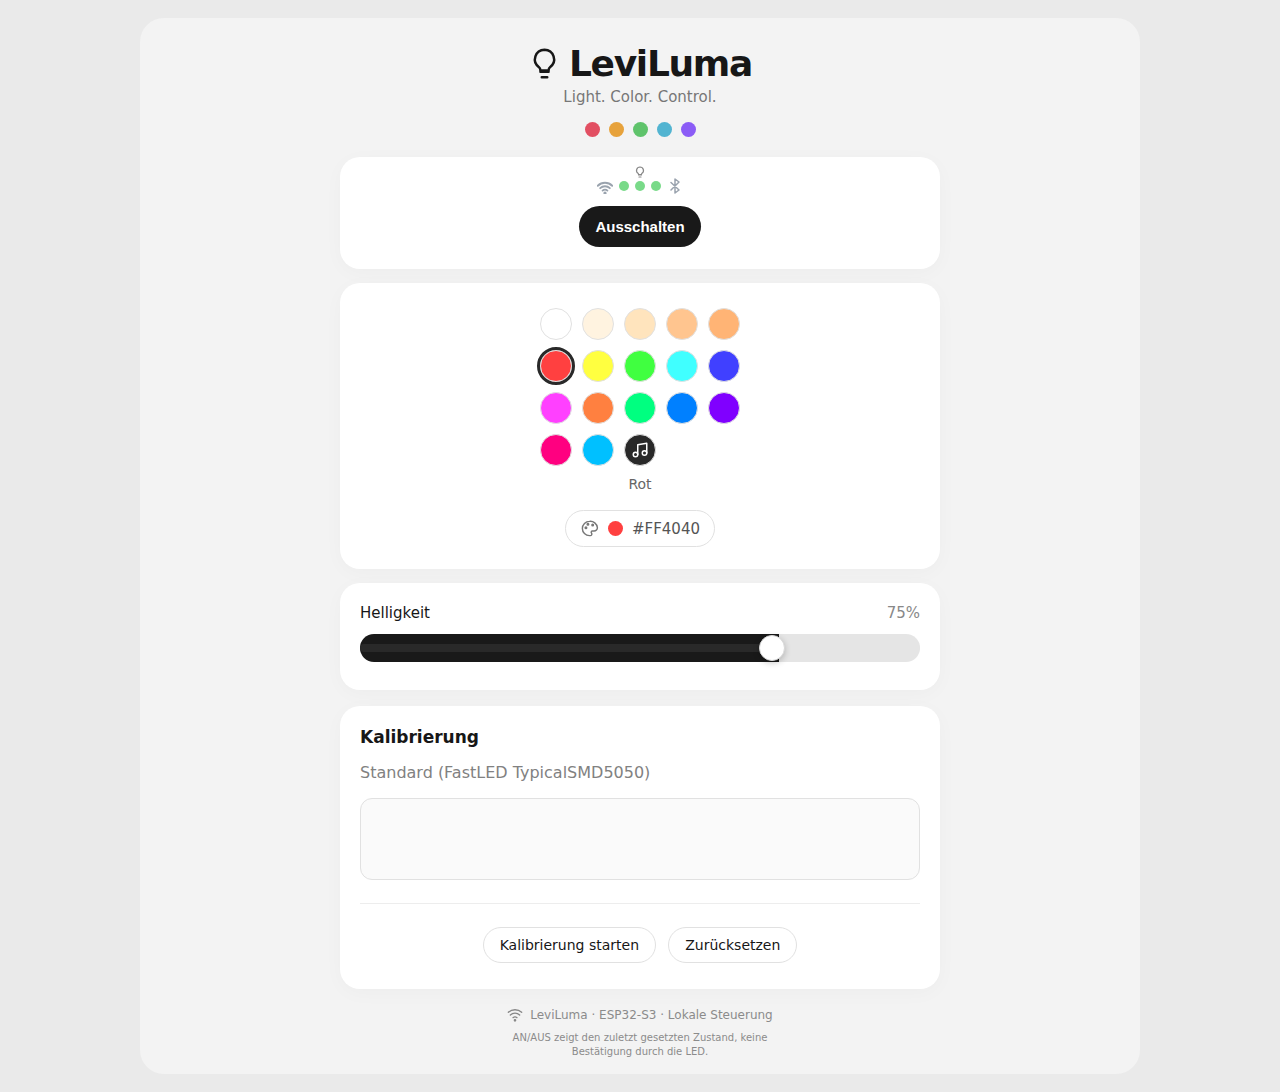
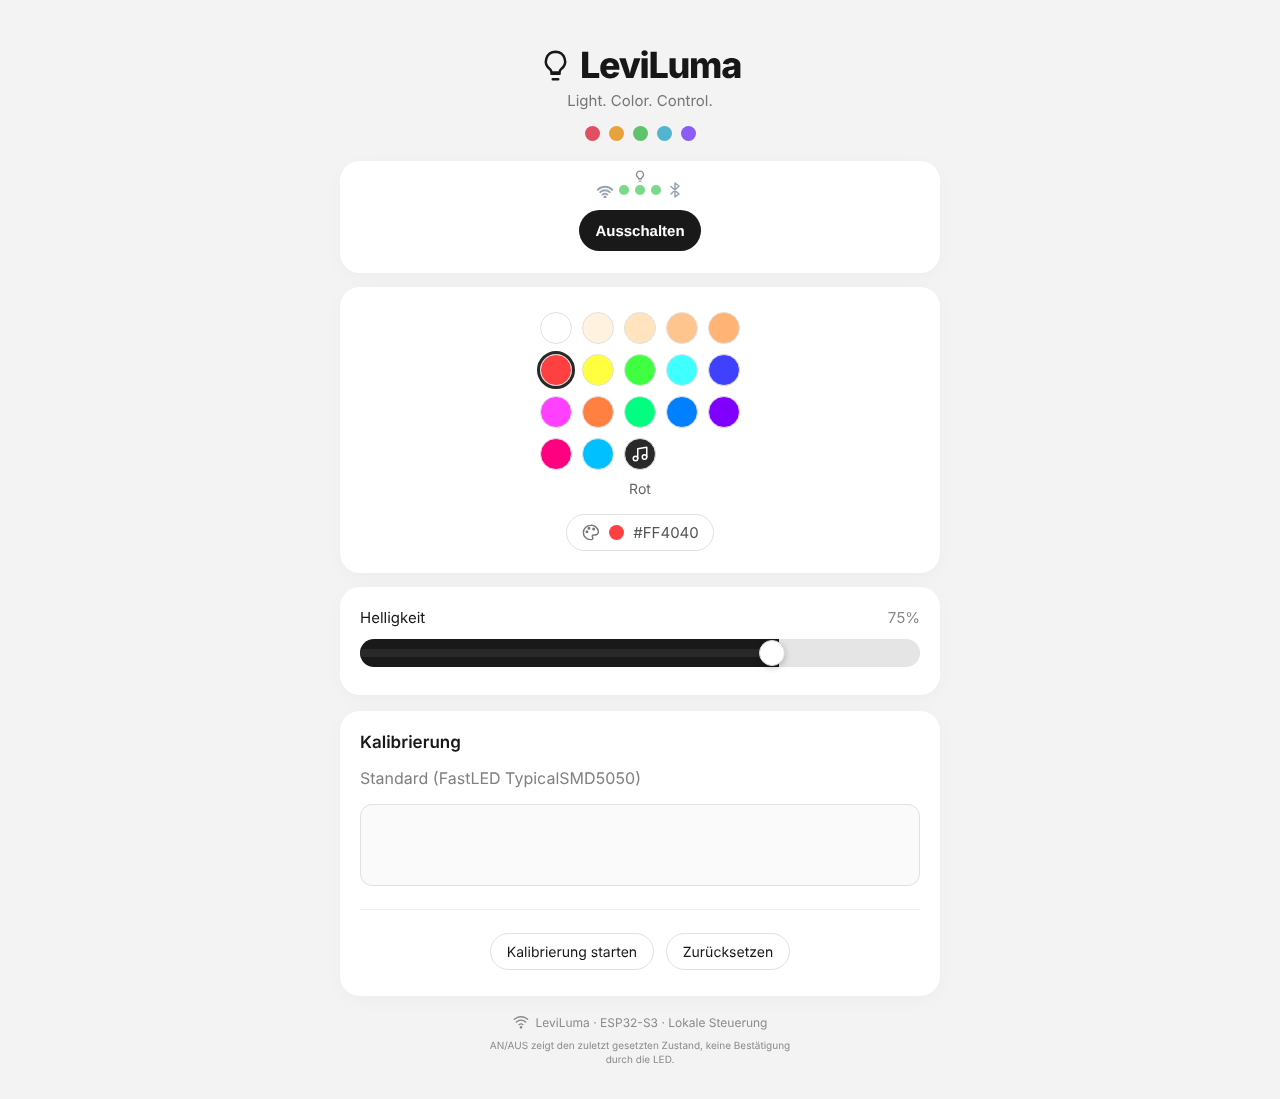
Web-UI: ein einheitlicher Hintergrund, kein grauer Rahmen mit runden Ecken mehr
Body und Hintergrund #f3f3f3, der äußere Kasten (.shell) ist transparent. Nur die weißen
Karten sind abgerundet. Screenshots neu.

Claude-Session: https://claude.ai/code/session_01XLaKkGhMqU82qXdsv9t5qw

diff --git a/include/WebUi.h b/include/WebUi.h
@@ -2,8 +2,8 @@
 #include <Arduino.h>
 static const char LEVI_HTML[] PROGMEM=R"LEVIHTML(<!doctype html><html lang="de"><head><meta charset="utf-8"><meta name="viewport" content="width=device-width,initial-scale=1"><title>LeviLuma</title>
 <style>
-*{box-sizing:border-box}body{margin:0;min-height:100vh;background:#eaeaea;color:#171717;font-family:system-ui,-apple-system,BlinkMacSystemFont,"Segoe UI",sans-serif;display:flex;align-items:center;justify-content:center;padding:18px}
-.shell{background:#f3f3f3;border-radius:24px;padding:20px 17px 13px;width:min(100%,1000px)}
+*{box-sizing:border-box}body{margin:0;min-height:100vh;background:#f3f3f3;color:#171717;font-family:system-ui,-apple-system,BlinkMacSystemFont,"Segoe UI",sans-serif;display:flex;align-items:center;justify-content:center;padding:18px}
+.shell{background:transparent;padding:20px 0 13px;width:min(100%,1000px)}
 header{text-align:center;padding:5px 0 20px}h1{font-size:36px;letter-spacing:-1.3px;margin:0;font-weight:760;display:flex;align-items:center;justify-content:center;gap:8px}
 svg{display:block}header p{margin:4px 0;color:#777;font-size:15px}.branddots{display:flex;justify-content:center;gap:9px;margin-top:16px}.branddots i{width:15px;height:15px;border-radius:50%}
 .calib{margin:16px auto 0;max-width:600px;width:100%}
